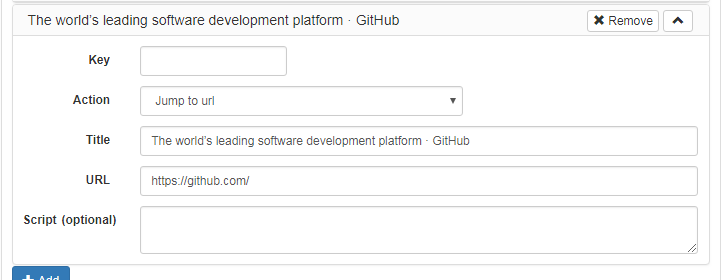
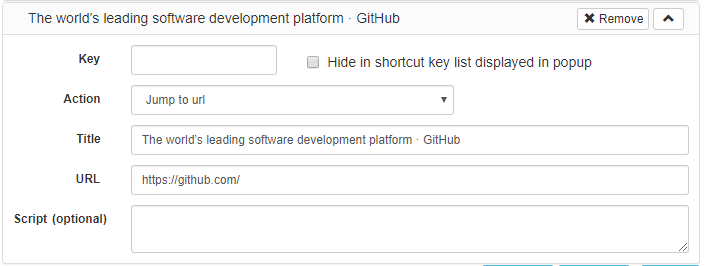
README更新

diff --git a/README.ja.md b/README.ja.md
@@ -2,8 +2,7 @@
 
 ShortcutKey2URL for Chromeは、ショートカットキーを使用してURLを開いたり、移動したり、JavaScriptを実行できるGoogle Chrome向け拡張機能です。
 
-スタートアップキーであらかじめ設定しておいた動作の一覧を表示し、次のキーでその動作を実行します。
-
+スタートアップキーであらかじめ設定しておいた動作の一覧を表示し、次のキーでその動作を実行します。  
 スタートアップキーは、デフォルトの状態ではCtrl+.(ピリオド)です。このキーは後から変更できます。(Macでは、Command+,(カンマ))
 
 キーとして使用できる文字は1文字に限定されません。複数文字として設定しておくことが可能です。ShrotcutKey2URLは、キーとして連続して入力された文字から、対象が1つに絞り込まれた時点でその動作を実行します。
@@ -44,6 +43,19 @@ ShortcutKey2URL for Chromeは、ショートカットキーを使用してURLを
 
 ![Screenshot of option](screenshots/option.png)
 
+### Settings
+
+`Column count` は、ポップアップで表示するショートカットの列数を指定します。  
+左が`2`を指定した場合、右が`3`を指定した場合です。
+
+![Screenshot of column 2](screenshots/column2.png) ![Screenshot of column 3](screenshots/column3.png)
+
+`Option`の`Interactive filter of shortcut keys on the popup`をチェックすると、ポップアップで表示するショートカットをインタラクティブに絞り込むことができます。
+
+![Screenshot of interactive filter](screenshots/interactive.gif)
+
+### Shortcut Keys
+
 `Add current page`をクリックすると、現在のページをショートカットキーとして簡単に設定できます。
 
 ![Screenshot of add current page](screenshots/add_current_page.png)
@@ -54,7 +66,14 @@ ShortcutKey2URL for Chromeは、ショートカットキーを使用してURLを
 
 ![Screenshot of add current page setting](screenshots/add_current_page_setting.png)
 
-`Action`として指定できるものは、下記の通りです。
+`Key`にはショートカットキーとして割り当てるキーを設定します。複数文字とすることも可能です。
+スタートアップキーを押下後、ここで設定したキーを押下することによって、ショートカットが実行されます。
+
+`Hide in shortcut key list displayed in popup`にチェックを付けると、ポップアップで表示されるショートカットの一覧にて非表示とすることができます。  
+非表示となるだけで、ショートカットキーとしては有効です。
+
+`Action`でショートカットキーとしての動作を指定します。  
+指定できるものは、下記の通りです。
 
 * `Jump to url` URLへの移動。既に開いているURLの場合は、そのタブへ移動し、開かれていない場合には、新しいタブとして開く。
 * `Open url in new tab` 新規タブとしてURLを開く。
@@ -62,3 +81,8 @@ ShortcutKey2URL for Chromeは、ショートカットキーを使用してURLを
 * `Execute script` 現在のタブで指定したJavaScriptを実行する。
 
 `Script (optional)`を指定することによって、URLを開いた後に任意のJavaScriptを実行することができます。
+
+### Import / Export
+
+ショートカットキーの一覧は、エクスポート / インポートが可能です。  
+これによりバックアップを取ったり、移行を行うことができます。(FirefoxとChrome間での移行など)

diff --git a/README.md b/README.md
@@ -2,8 +2,7 @@
 
 ShortcutKey2URL for Chrome is an extension for Google Chrome that allows you to open, and move url using shortcut keys. You can also run JavaScript.
 
-Display the action list with the startup key and execute the action with the next key.
-
+Display the action list with the startup key and execute the action with the next key.  
 The startup key default is Ctrl+Period(on mac, Command+Comma). You can change this key later. 
 
 Characters that can be used as keys are not limited to one character. It can be set as multiple characters. ShrotcutKey2URL executes its action from the characters entered consecutively as keys when the target is narrowed down to one.
@@ -44,6 +43,19 @@ Set the shortcut key on the setting screen.
 
 ![Screenshot of option](screenshots/option.png)
 
+### Settings
+
+`Column count` specifies the number of columns of the shortcut to be displayed in the popup.  
+The left is when `2` is specified, and the right is when `3` is specified.
+
+![Screenshot of column 2](screenshots/column2.png) ![Screenshot of column 3](screenshots/column3.png)
+
+If you check `Interactive filter of shortcut keys on the popup` of `Option`, you can interactively narrow down the shortcuts displayed in the popup.
+
+![Screenshot of interactive filter](screenshots/interactive.gif)
+
+### Shortcut Keys
+
 Click to `Add current page`, you can easily set the current page as a shortcut key.
 
 ![Screenshot of add current page](screenshots/add_current_page.png)
@@ -54,7 +66,14 @@ It is also possible to add from the context menu.
 
 ![Screenshot of add current page setting](screenshots/add_current_page_setting.png)
 
-The items that can be selected as `Action` are as follows.
+Set a key to be assigned as a shortcut key in `Key`. It can be multiple characters.  
+After pressing the startup key, press the key set here to execute the shortcut.
+
+If you check `Hide in shortcut key list displayed in popup`, you can hide it in the shortcut list displayed in the popup.  
+It is only hidden and is effective as a shortcut key.
+
+Specify the action as a shortcut key with `Action`.  
+The following can be specified.
 
 * `Jump to url` Jump to URL. For already opened URL, go to that tab. Open it as a new tab if it is not already open.
 * `Open url in new tab` Open URL in new tab.
@@ -62,3 +81,8 @@ The items that can be selected as `Action` are as follows.
 * `Execute script` Execute the JavaScript on the current tab.
 
 By entering `Script (optional)` you can execute arbitrary JavaScript after opening the URL.
+
+### Import / Export
+
+The list of shortcut keys can be exported / imported.  
+This allows you to take backups and perform migrations. (E.g. migration between Firefox and Chrome)
